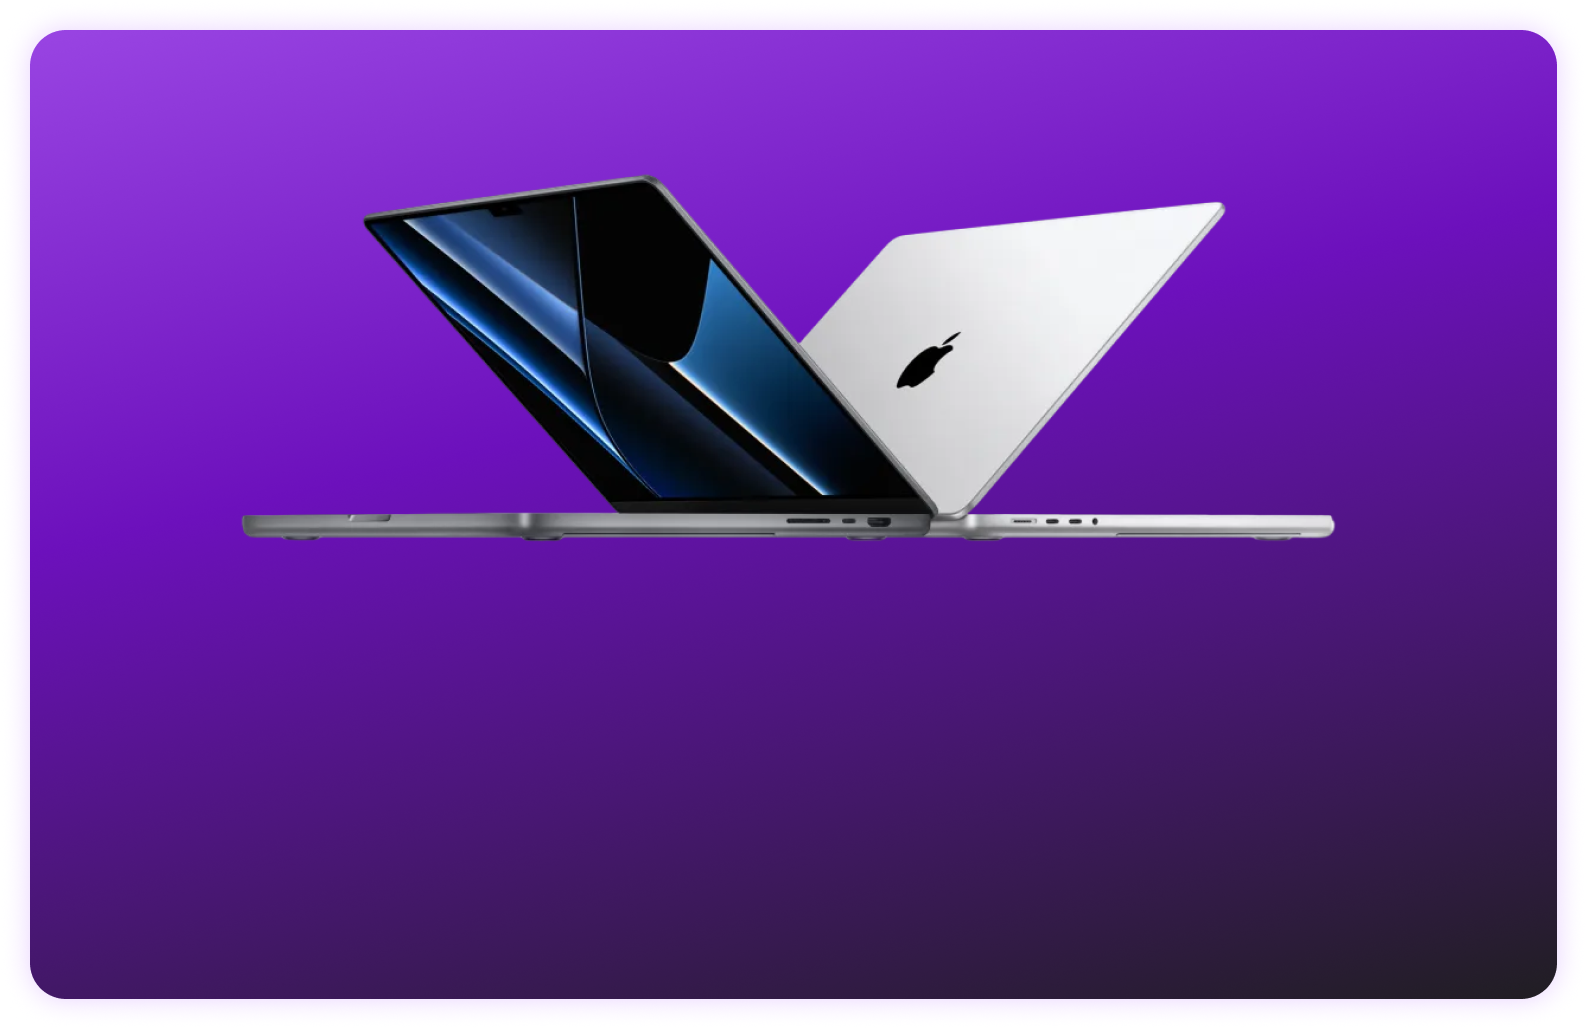
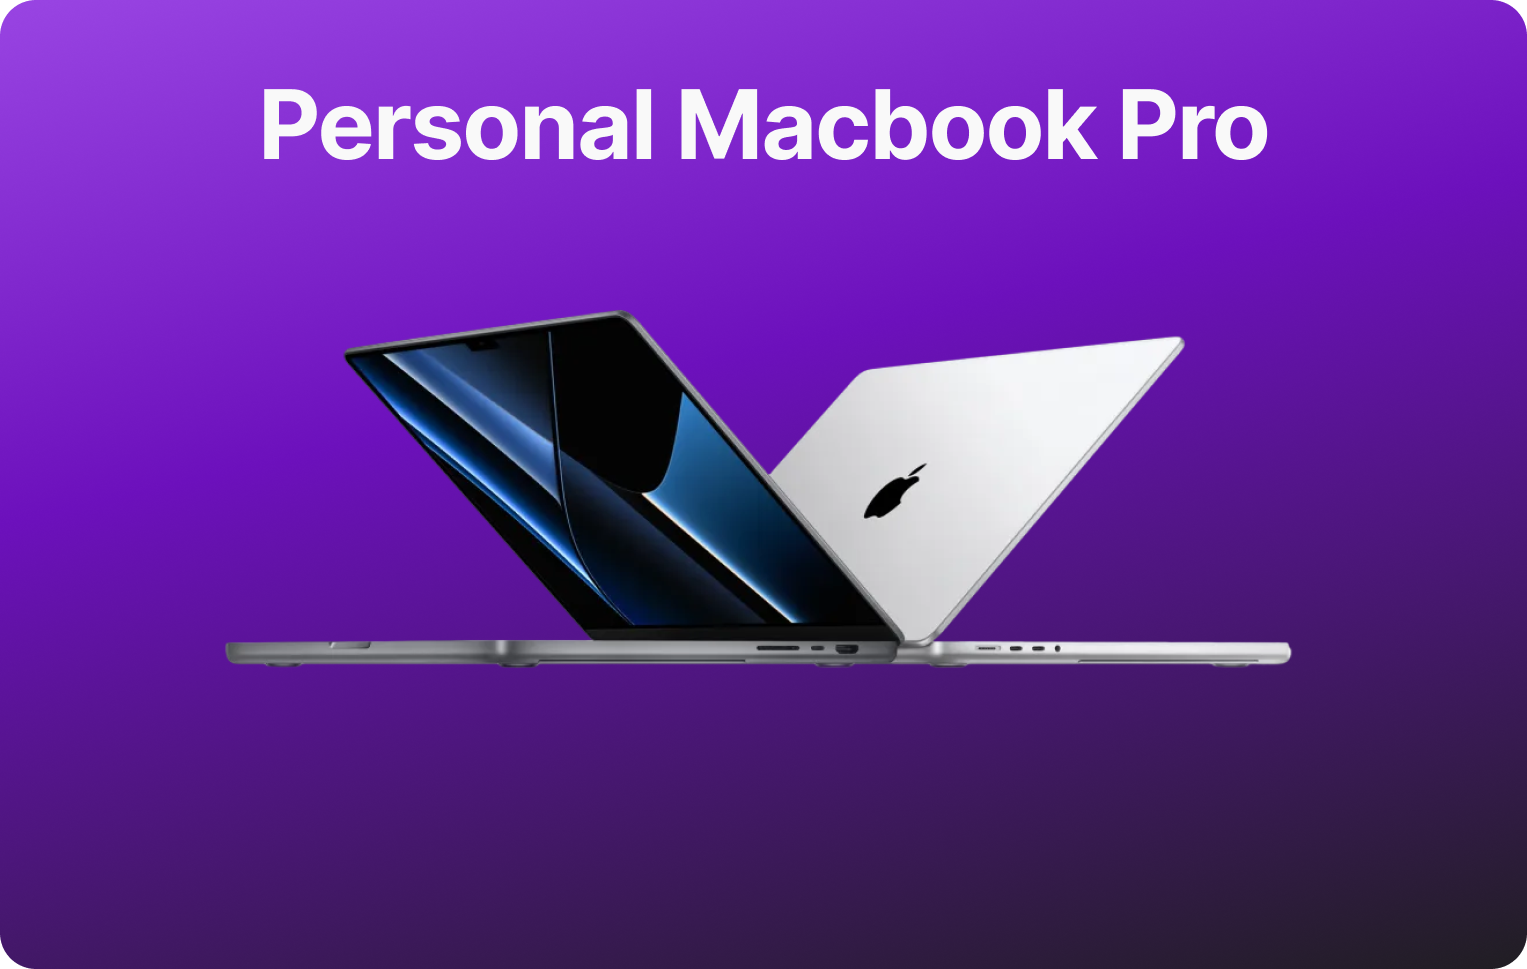
VF-445 replaced whyvedam last image

diff --git a/src/components/home/VedamVs.jsx b/src/components/home/VedamVs.jsx
@@ -169,6 +169,7 @@ export const VedamVs = () => {
               display: "flex",
               alignItems: "flex-start",
               marginTop: "1rem",
+              paddingLeft: '12px'
             }}
             showBorder
             textArrayStyle={{
@@ -229,6 +230,7 @@ export const VedamVs = () => {
               display: "flex",
               alignItems: "flex-start",
               marginTop: "1rem",
+              paddingLeft: '12px',
             }}
             showBorder
             textArrayStyle={{
@@ -247,8 +249,11 @@ export const VedamVs = () => {
             data={homeScreenData.vedamVs.rightSideData}
             containerStyle={{
               flex: "0 0 65%",
-              border: "1px solid rgba(108, 16, 188, 1)",
+              borderLeft: "1px solid #8A18FF",
+              // borderTop: "1px solid #8A18FF",
+              // borderBottom: "1px solid #8A18FF",
               borderRadius: "20px",
+              backgroundColor: '#F4F4F4',
               height: "414px",
               paddingTop: "35px",
               paddingBottom: "20px",

diff --git a/src/constants/data.js b/src/constants/data.js
@@ -212,10 +212,10 @@ export const detailsData = [
   {
     image: "/img/whyvedam/fifth.webp",
     bgImage: "/img/whyvedam/whyvedam5.png",
-    title: "Personal Macbook ",
+    title: "Personal Macbook Pro",
     description:
       "It's your key to a hands-on, immersive and collaborative learning experience in Computer Science and AI. ",
-    isFeatured: true,
+    // isFeatured: true,
   },
 ];
 
